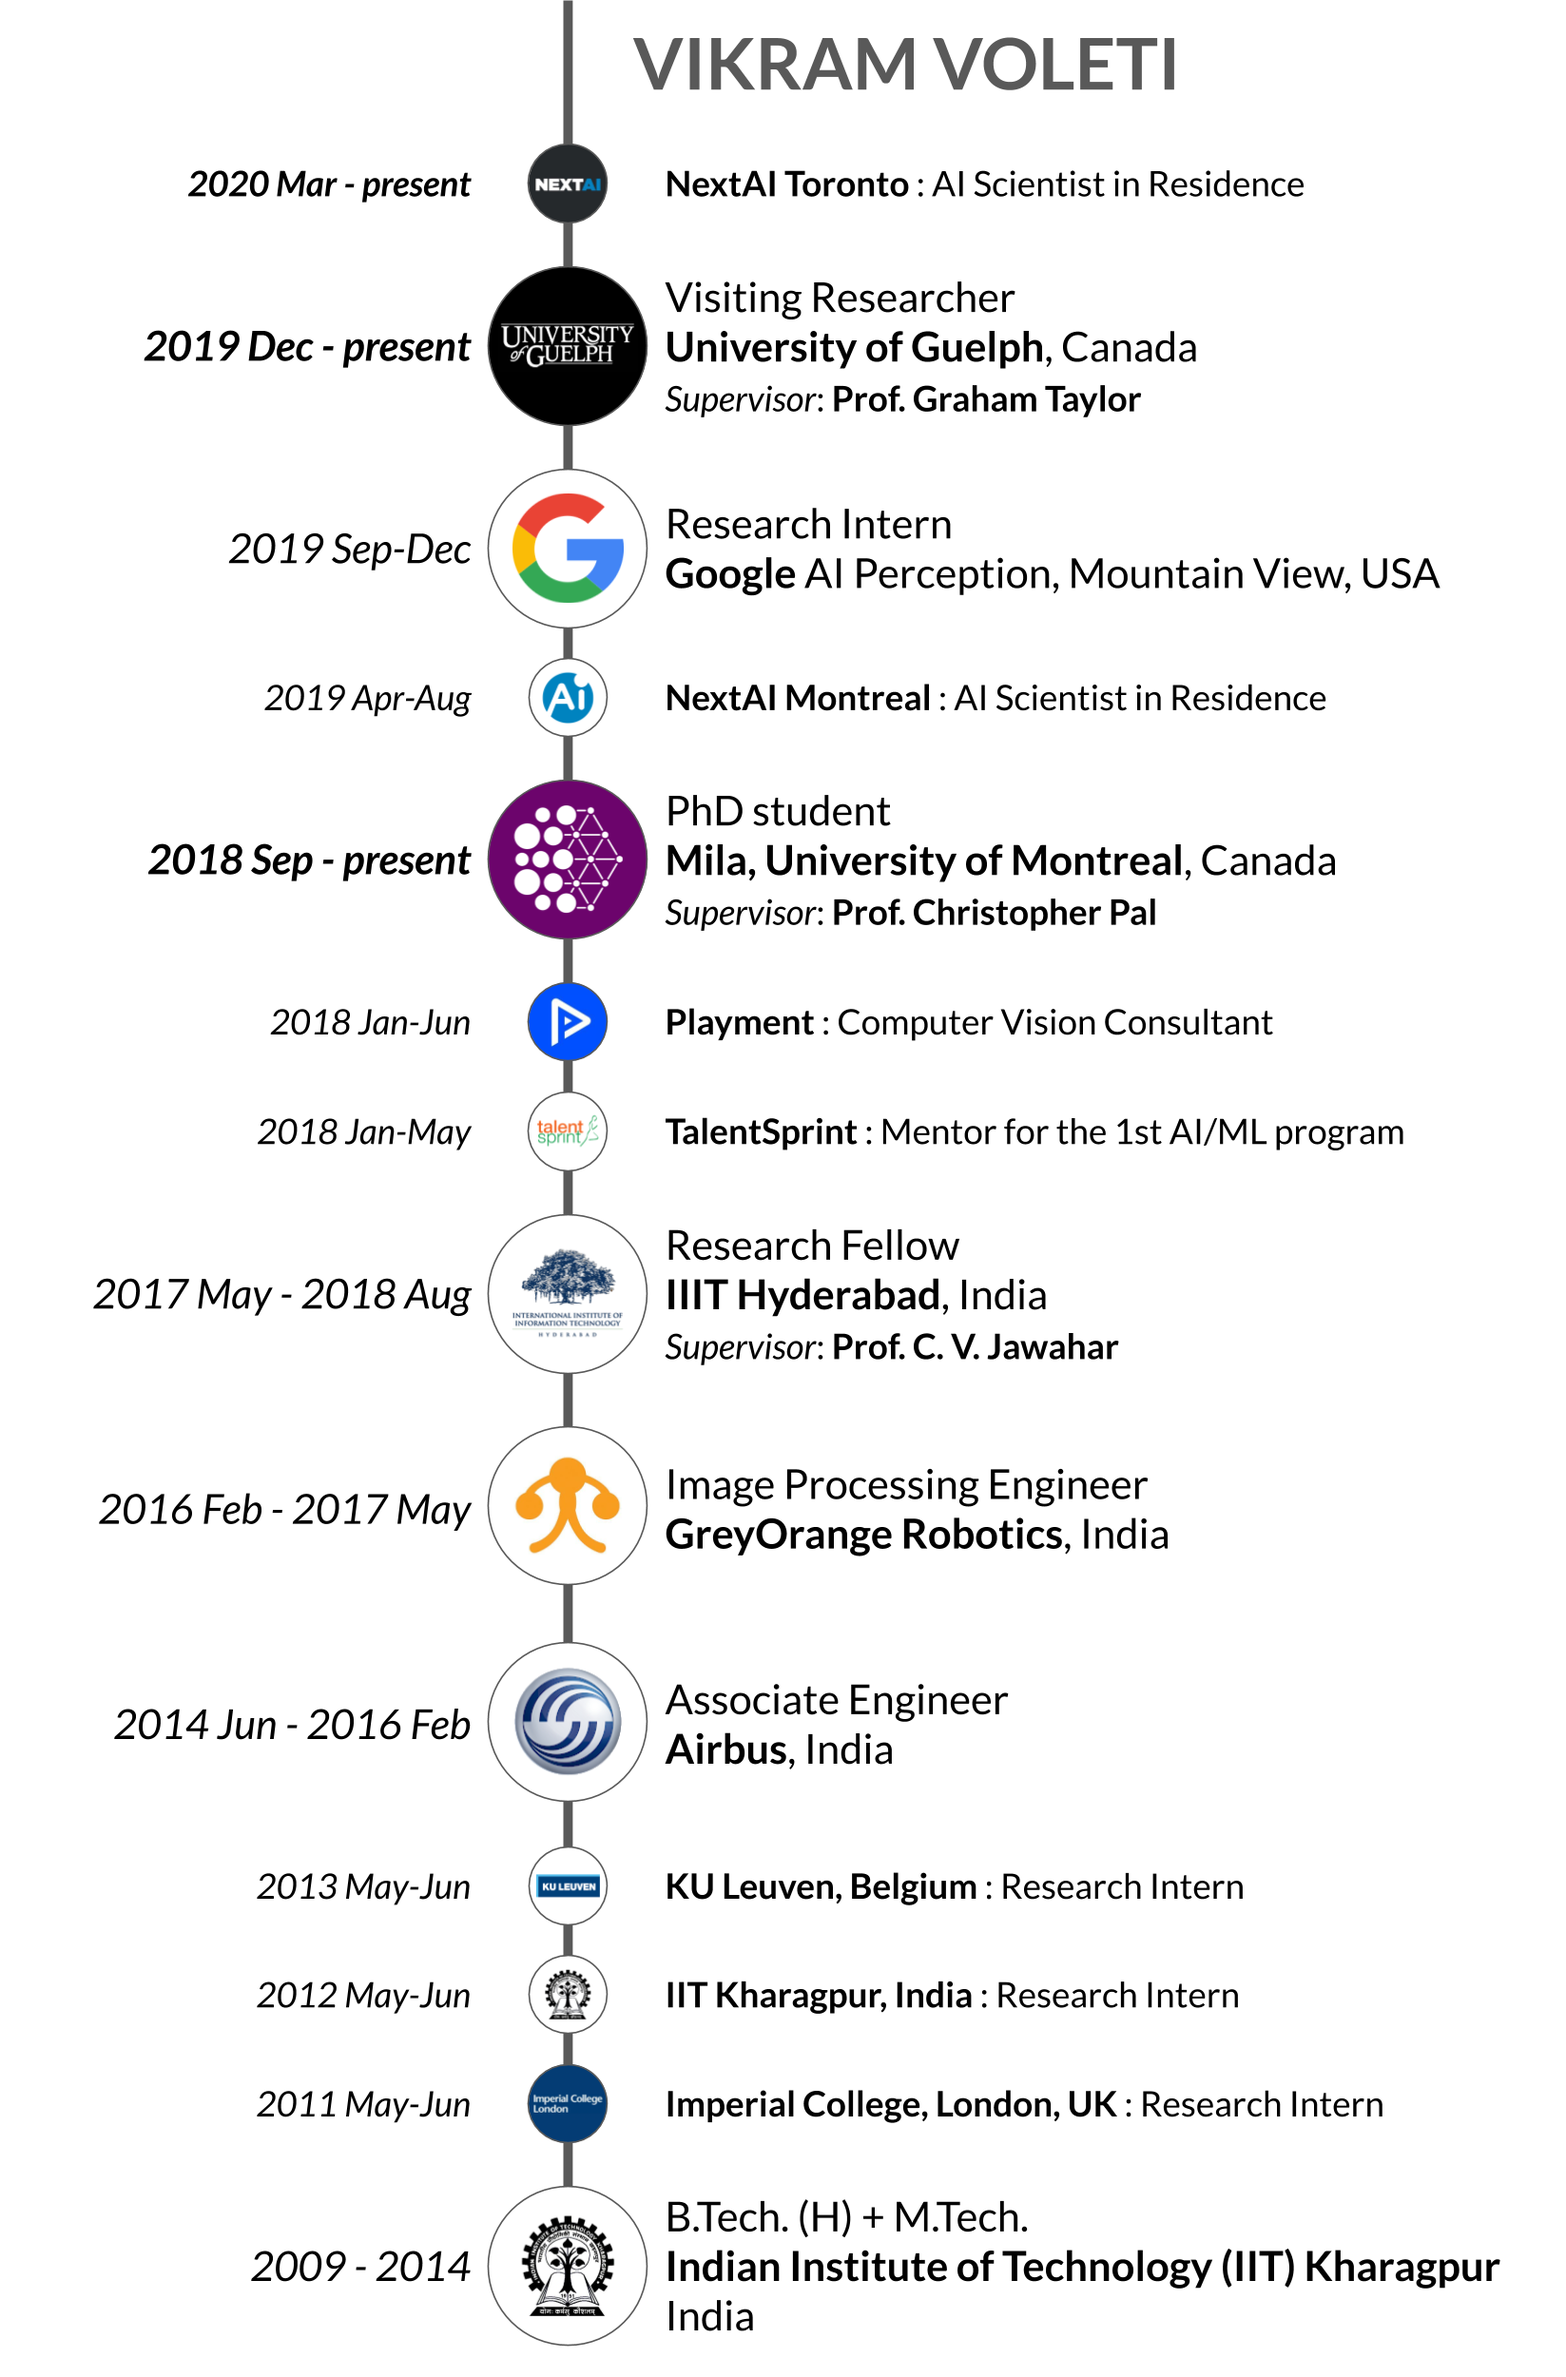
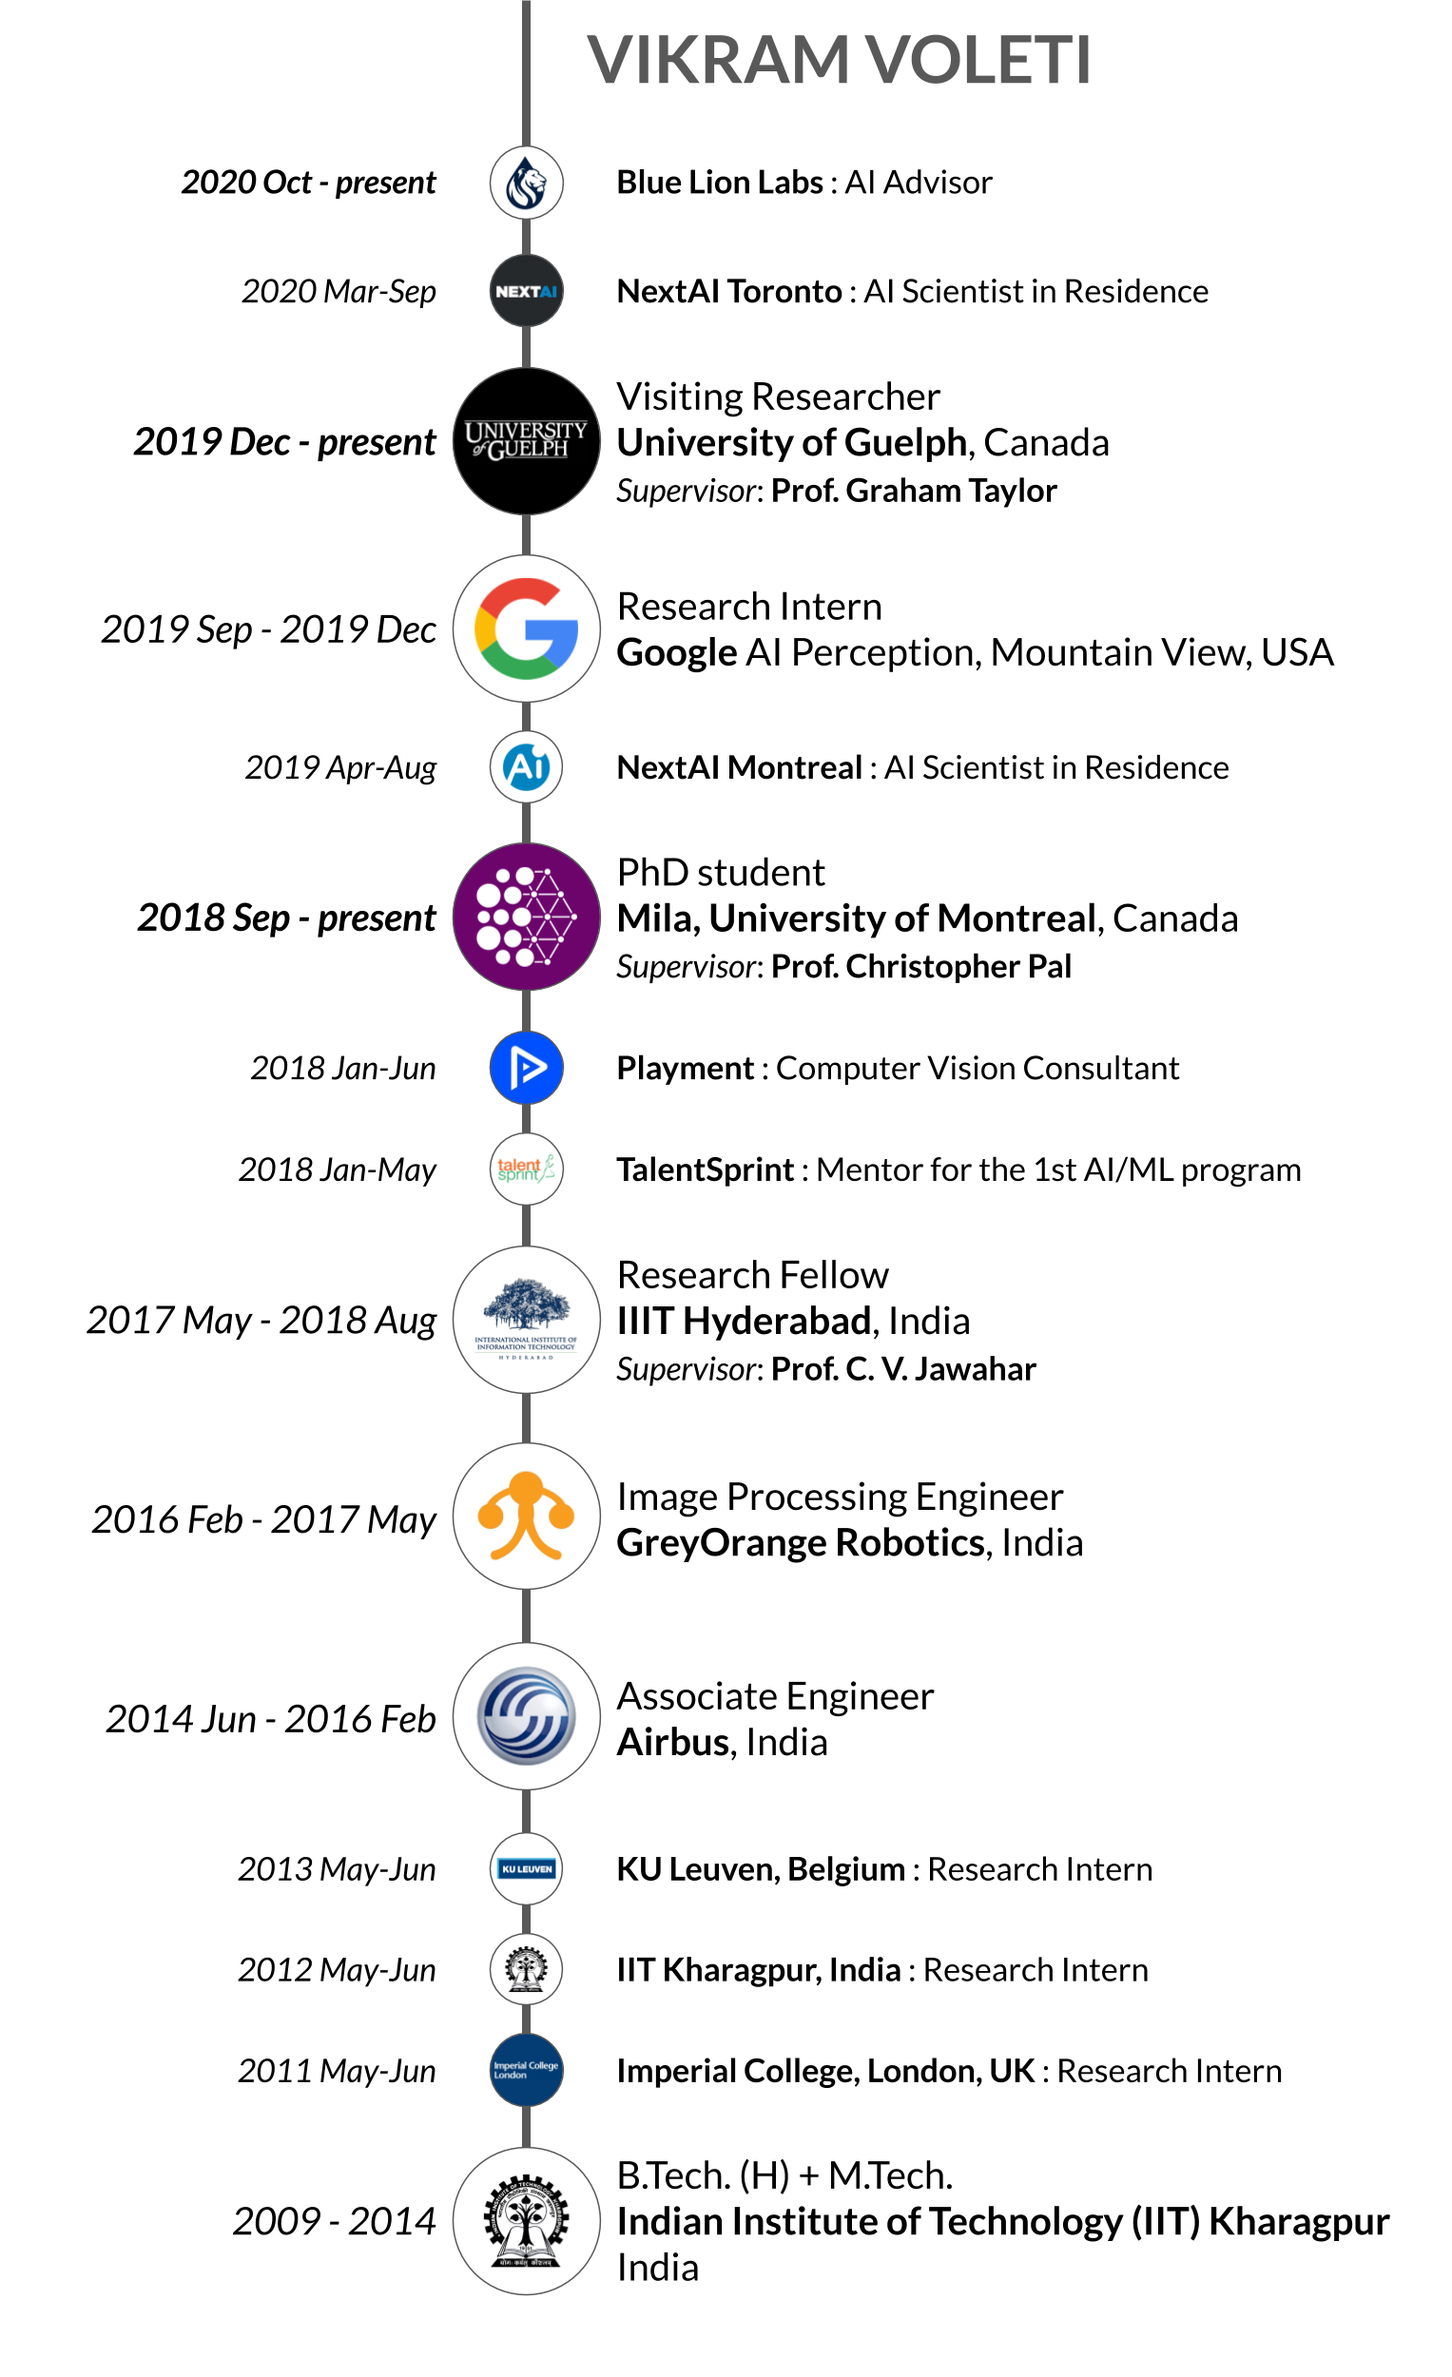
Updates - BlueLion
Former-commit-id: bcc22a132c176819fdc5288f5f7bfe7e0b31b790

diff --git a/_pages/index.md b/_pages/index.md
@@ -11,11 +11,11 @@ permalink: /
 
 <img class="profile-picture" src="{{site.url}}{{site.baseurl}}/images/profile-picture/profile_picture.jpg" />
 
-I am a PhD student at [Mila](https://mila.quebec/en/){:target="_blank"}, [University of Montreal](https://diro.umontreal.ca/){:target="_blank"}, I am supervised by [Prof. Christopher Pal](https://mila.quebec/en/person/pal-christopher/){:target="_blank"}. I am also a Visiting Researcher with [Prof. Graham Taylor](https://www.gwtaylor.ca/){:target="_blank"} at the [University of Guelph](https://www.uoguelph.ca/engineering/){:target="_blank"}.
+I am a PhD student at [Mila](https://mila.quebec/en/){:target="_blank"}, [University of Montreal](https://diro.umontreal.ca/){:target="_blank"}, I am supervised by [Prof. Christopher Pal](https://mila.quebec/en/person/pal-christopher/){:target="_blank"}. I am also a Visiting Researcher with [Prof. Graham Taylor](https://www.gwtaylor.ca/){:target="_blank"} at the [University of Guelph](https://www.uoguelph.ca/engineering/){:target="_blank"}. I also work as an AI Advisor to [Blue Lion Labs](https://bluelionlabs.com/){:target="_blank"}.
 
 Main research interests are in computer vision and deep learning. I have worked on projects spanning multi-scale image generation; self-supervised video predition using dynamical modelling; neural rendering; multi-modal GANs; unsupervised physics estimation from video using differentiable 3D simulation. 
 
-I was a Research Intern at [Google](https://ai.google/research/teams/perception/){:target="_blank"}, Mountain View in the [Google AI Perception](https://ai.google/research/teams/perception/){:target="_blank"} team in the fall of 2019. I had the good fortune of working with Bryan Seybold & Sourish Chaudhuri on Semi-supervised Active Speaker Detection in videos. I am also an AI Scientist in Residence at [NextAI](https://www.nextcanada.com/next-ai/){:target="_blank"}, Toronto in 2020, and was in Montreal in 2019.
+I was a Research Intern at [Google](https://ai.google/research/teams/perception/){:target="_blank"}, Mountain View in the [Google AI Perception](https://ai.google/research/teams/perception/){:target="_blank"} team in the fall of 2019. I had the good fortune of working with Bryan Seybold & Sourish Chaudhuri on Semi-supervised Active Speaker Detection in videos. I was also an AI Scientist in Residence at [NextAI](https://www.nextcanada.com/next-ai/){:target="_blank"}, Toronto in 2020, and was in Montreal in 2019.
 
 Previously, I worked as a Research Fellow with [Prof. C. V. Jawahar](https://faculty.iiit.ac.in/~jawahar/){:target="_blank"} at [IIIT-Hyderabad](https://cvit.iiit.ac.in){:target="_blank"} on automated lip synthesis for translation of a video into a different languages. I was also a Mentor for the first [Foundations of AI/ML](https://www.talentsprint.com/aiml.dpl){:target="_blank"} certificate program for industry professionals by IIIT-H Machine Learning Lab.
 

diff --git a/_pages/experience.md b/_pages/experience.md
@@ -34,6 +34,19 @@ I work in [Prof. Graham Taylor](https://www.gwtaylor.ca/){:target="_blank"}'s la
 
 </div>
 
+
+<div class="experience-box" markdown="1">
+[<img class="experience-picture" src="{{site.url}}{{site.baseurl}}/images/experience/bluelion.jpeg">](https://bluelionlabs.com/){:target="_blank"}
+
+_October 2020 --- present_
+
+### AI Advisor - [Blue Lion Labs](https://bluelionlabs.com/){:target="_blank"}
+**Waterloo, Canada**
+
+I advise [Blue Lion Labs](https://bluelionlabs.com/){:target="_blank"}, an early-stage startup that provides technology to automatically monitor different organisms in water using machine learning.
+
+</div>
+
 # EDUCATION
 
 <div class="experience-box" markdown="1">
